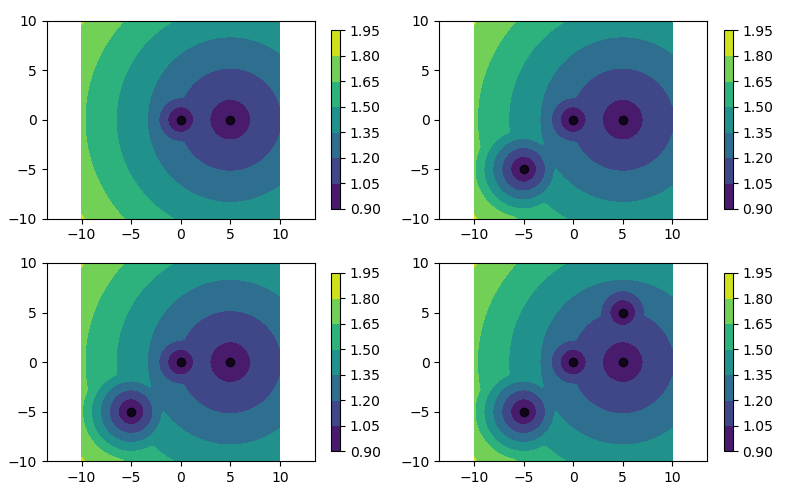
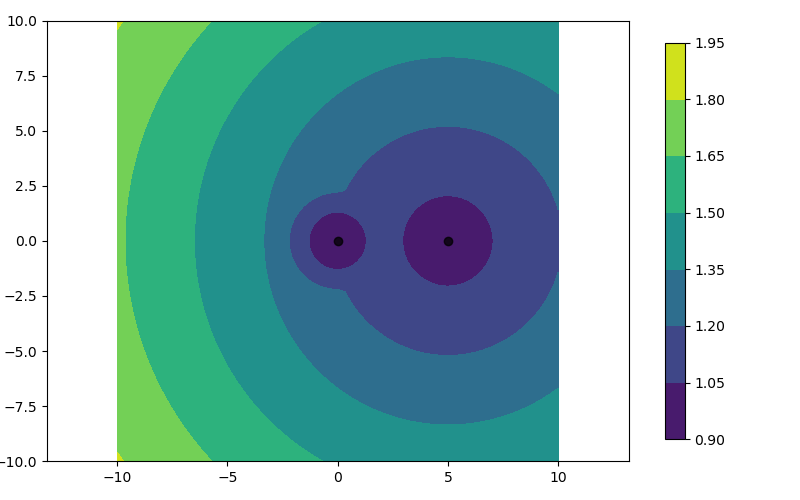
fix doc for density

diff --git a/doc/doc_density.py b/doc/doc_density.py
@@ -10,6 +10,13 @@ def doc_density():
   density=np.array([[0,0,1,1.2],[2.5,0,10,1.2],[5,0,1,1.05]])
   df=DF(density,minDensity=1,maxDensity=100,minGrowth=1.2)
   
+  
+  fig, axes = plt.subplots(nrows=1, ncols=1, figsize=(8, 5))
+  fig.tight_layout()
+  
+  df.plot(extent=[-10,-10,10,10],axe=axes,fig=fig,showDP=True)
+  df.plotSave("doc/img/density.1.png")
+  
   fig, axes = plt.subplots(nrows=2, ncols=2, figsize=(8, 5))
   fig.tight_layout()
   
@@ -17,7 +24,7 @@ def doc_density():
   df.add([[-5,-5,1,1.2]]).plot(extent=[-10,-10,10,10],axe=axes[0][1],fig=fig,showDP=True)
   df.add([[-5,5,5,1.2]]).plot(extent=[-10,-10,10,10],axe=axes[1][0],fig=fig,showDP=True)
   df.add([[5,5,1,1.2]]).plot(extent=[-10,-10,10,10],axe=axes[1][1],fig=fig,showDP=True)
-  df.plotSave("doc/img/density.1.png")
+  df.plotSave("doc/img/density.2.png")
     
   
 if __name__ == "__main__":

diff --git a/doc/density.md b/doc/density.md
@@ -47,7 +47,8 @@ To calculate the length or distance from density point to density field location
 [![getl_n_sum](img/getl_n_sum.png)](img/getl_n_sum.png)
 
 To simplify, the sum can be converted to closed form:\
-[![getclosedform](img/getclosedform.png)](img/getclosedform.png) or [![getl_n](img/getl_n.png)](img/getl_n.png)
+[![getclosedform](img/getclosedform.png)](img/getclosedform.png)\
+[![getl_n](img/getl_n.png)](img/getl_n.png)
 
 If n is unknown and l is known:\
 [![getn_l](img/getn_l.png)](img/getn_l.png)
@@ -144,3 +145,4 @@ Example
 >>> df.add([[5,5,1,1.2]]).plot(extent=[-10,-10,10,10],axe=axes[1][1],fig=fig,showDP=True)
 >>> df.plotSave("doc/img/density.1.png")
 ```
+[![density.2](img/density.2.png)](img/density.2.png)

diff --git a/doc/README.md b/doc/README.md
@@ -263,7 +263,7 @@ Examples
 [![resample.1](img/resample.1.png)](img/resample.1.png)
 
 
-#### object.dresample(density[,mp])
+#### object.dresample(df[,mp])
 ```
   Resample object using a 2D density growth field. 
   The length of the segments are automatically calculated based on the density growth field.
@@ -333,7 +333,7 @@ Examples
 [![largest.1](img/largest.1.png)](img/largest.1.png)
 
 
-#### mshapely.dsimplify(density)
+#### mshapely.dsimplify(df)
 
 ```python
 >>> holes = [
